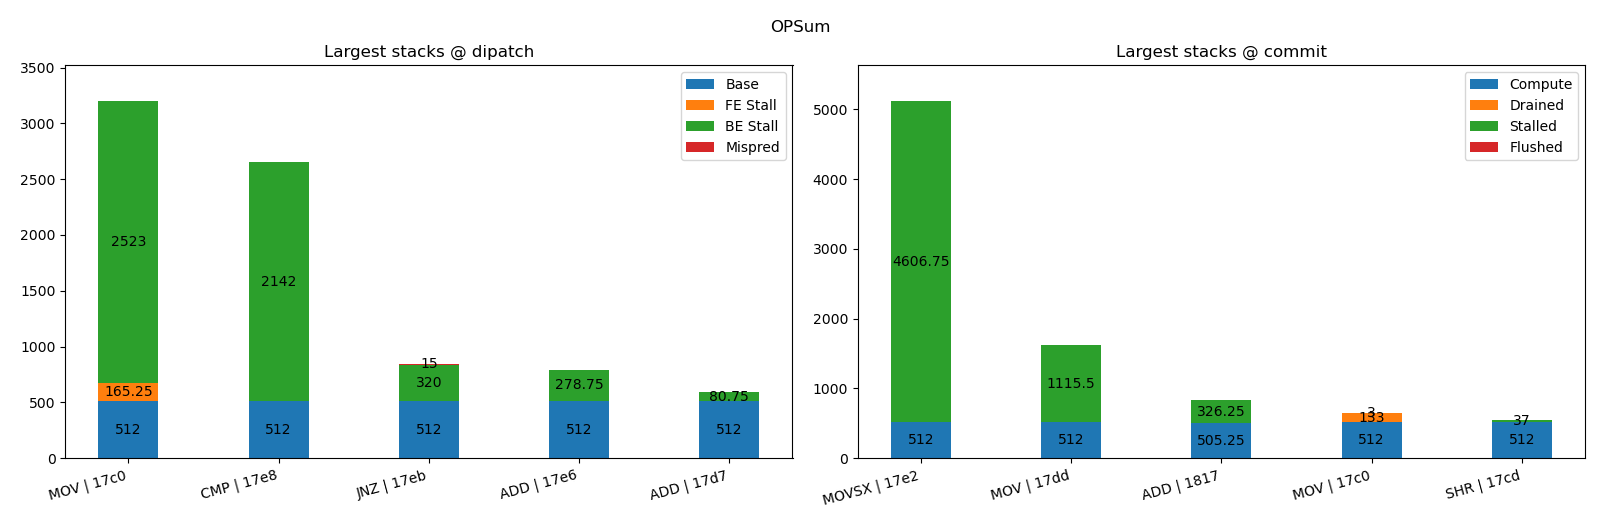
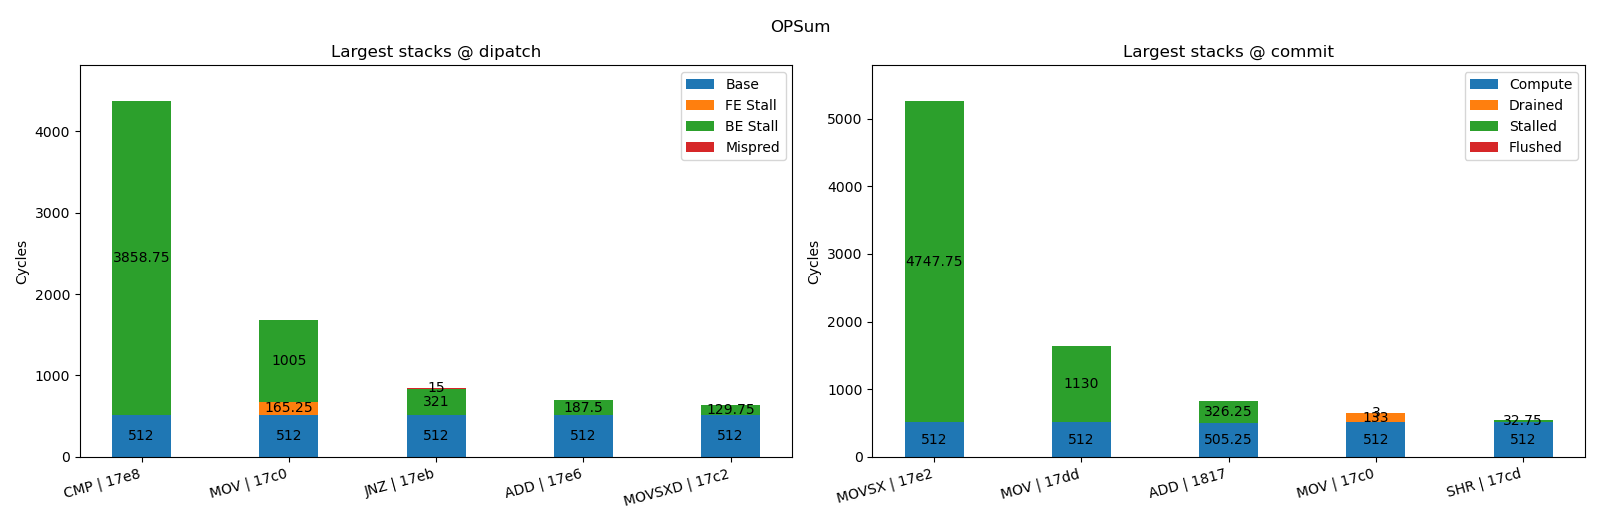
Graphs now have y-axis named. Table uses comma for decimal point

diff --git a/verslag/main.tex b/verslag/main.tex
@@ -393,7 +393,7 @@ Deze sectie onderbouwt de implementatie van \textit{PICS} aan de hand van invari
 \subsection{Totaal aantal cycli}
 Per cyclus kent \textit{PICS} de cyclus (of een fractie ervan, zoals in sectie \ref{subsection:PICS bij dispatch}) toe aan de instructies die in die cyclus dispatchen. Elke cyclus wordt volledig verdeeld - er gaat niets verloren en er wordt niets bijgeteld. De totale som van alle toegewezen cycli over alle \textit{PICS} bij \textit{dispatch} moet daarom per definitie gelijk zijn aan de totale gesimuleerde duur van het programma (in cycli). Eenzelfde redenering kan gemaakt worden voor de \textit{commit}-stacks, die onafhankelijk tot dezelfde som moeten leiden.
 
-Tabel~\ref{tab:invariant_totaal} toont een selectie van \textit{microbenchmarks}. De kolom \textit{ROB-cycli} bevat het totaal aantal simulatiecycli zoals gerapporteerd door de \textit{Sniper} simulator. Er wordt echter een correctie uitgevoerd op dit aantal, wat onderbouwt wordt in sectie \ref{subsection:open_prob}. De kolommen \textit{\(PICS_d\)} en \textit{\(PICS_c\)} bevatten de som van alle \textit{PICS}-waarden bij respectievelijk \textit{dispatch} en \textit{commit}. De bijhorende \(\Delta\)-kolommen geven het verschil in absolute cycli met de referentie.
+Tabel~\ref{tab:invariant_totaal} toont een selectie van \textit{microbenchmarks}. De kolom \textit{ROB-cycli} bevat het totaal aantal simulatiecycli zoals gerapporteerd door de \textit{Sniper} simulator. Er wordt echter een correctie uitgevoerd op dit aantal, wat onderbouwt wordt in sectie \ref{subsection:open_prob}. De kolommen \textit{\(PICS_d\)} en \textit{\(PICS_c\)} bevatten de som van alle \textit{PICS}-waarden bij respectievelijk \textit{dispatch} en \textit{commit}. De bijhorende \(\Delta\)-kolommen geven het verschil in absolute cycli met de referentie. De \(\Delta\) ligt bij \textit{commit} hoger doordat de gedetaileerde simulatie afsluit wanneer sommige \textit{µops} nog niet gesimuleerd zijn, zoals verder uitgelegd in sectie \ref{subsection:open_prob}.
 
 \begin{table}[H]
     \centering
@@ -401,16 +401,16 @@ Tabel~\ref{tab:invariant_totaal} toont een selectie van \textit{microbenchmarks}
         \hline
         Benchmark & ROB-cycli & \(PICS_d\) & \(\Delta_d\) & \(PICS_c\) & \(\Delta_c\) \\
         \hline
-        ED1   & 118{,}438.73 & 118{,}438.70 & \(-0.03\) & 118{,}435.71 & \(-3.03\) \\
-        STL2b & 295{,}280.33 & 295{,}280.26 & \(-0.07\) & 295{,}277.22 & \(-3.11\) \\
-        MCS   & 245{,}360.45 & 245{,}360.31 & \(-0.14\) & 245{,}357.44 & \(-3.00\) \\
-        MI    &  48{,}538.89 &  48{,}538.75 & \(-0.14\) &  48{,}535.50 & \(-3.39\) \\
-        DPcvt &  21{,}845.95 &  21{,}845.75 & \(-0.20\) &  21{,}842.72 & \(-3.23\) \\
-        EI    &   7{,}197.98 &   7{,}197.75 & \(-0.23\) &   7{,}194.70 & \(-3.28\) \\
-        CCl   &   5{,}874.99 &   5{,}874.74 & \(-0.25\) &   5{,}871.72 & \(-3.27\) \\
+        ED1   & 118.438,73 & 118.438,70 & \(-0,03\) & 118.435,71 & \(-3,03\) \\
+        STL2b & 295.280,33 & 295.280,26 & \(-0,07\) & 295.277,22 & \(-3,11\) \\
+        MCS   & 245.360,45 & 245.360,31 & \(-0,14\) & 245.357,44 & \(-3,00\) \\
+        MI    &  48.538,89 &  48.538,75 & \(-0,14\) &  48.535,50 & \(-3,39\) \\
+        DPcvt &  21.845,95 &  21.845,75 & \(-0,20\) &  21.842,72 & \(-3,23\) \\
+        EI    &   7.197,98 &   7.197,75 & \(-0,23\) &   7.194,70 & \(-3,28\) \\
+        CCl   &   5.874,99 &   5.874,74 & \(-0,25\) &   5.871,72 & \(-3,27\) \\
         \hline
     \end{tabular}
-    \caption{Selectie van benchmarks. Alle waarden zijn in cycli.}
+    \caption{Selectie van benchmarks. Alle waarden worden uitgedrukt in cycli.}
     \label{tab:invariant_totaal}
 \end{table}
 
@@ -655,15 +655,15 @@ De \verb|add| op adres \verb|401780| is de eerste instructie die een \textit{loa
 Figuur \ref{fig:AA} toont duidelijk via de \textit{PICS} bij \textit{commit} dat de \verb|add| instructie die hierboven vermeld is de bottleneck is. Merkwaardig is dat de \textit{PICS} bij \textit{dispatch} de \verb|test| instructie aanduidt als bottleneck. Dit is echter te verwachten aangezien — wegens constructie van de \textit{PICS} bij \textit{dispatch}, zie sectie \ref{subsection:PICS bij dispatch} — de cycli worden geattribueerd aan de instructie die op dat moment niet kan worden \textit{gedispatcht}. Op het moment dat de \verb|add| instructie wacht op een \textit{load}, staat de \verb|test| instructie als volgende klaar om \textit{gedispatcht} te worden en krijgt bijgevolg de cycli toegewezen. Dit toont opnieuw aan dat beide meetmomenten een complementair beeld geven en dat het visualiseren van de \textit{PICS} bij \textit{commit} essentieel is voor een correcte analyse.
 \begin{figure}[H]
     \centering
-    \makebox[\textwidth][c]{\includegraphics[width=1.2\textwidth]{AA_nl.png}}
+    \makebox[\textwidth][c]{\includegraphics[width=1.2\textwidth]{AA.png}}
     \caption{PICS van AA}
     \label{fig:AA}
 \end{figure}
 
-Als optimalisatie wordt er een afweging gemaakt binnen het alloceren van de gelinkte lijst. Er wordt gekozen om aan \textit{arena allocation} te doen. Dit wil zeggen dat wanneer de eerste knoop wordt gealloceerd, er onmiddellijk een groter blok wordt gealloceerd voor meerdere knopen. De volgende knopen worden dan gealloceerd door een pointer op te schuiven. Er moet echter een afweging gemaakt worden over hoeveel ruimte er wordt gealloceerd: een te groot blok reserveren verspilt mogelijks geheugen en maakt het moeilijker een vrije blok te vinden, terwijl een te klein blok weinig voordeel biedt. Als er wordt gewerkt met \textit{arena allocation} waarbij er onmiddellijk vijf knopen worden gealloceerd, zijn de bijhorende \textit{PICS} te zien in Figuur~\ref{fig:AA_opt}. Het is duidelijk dat het aantal cycli gespendeerd in een \textit{backend stall} daalt. Het initieel alloceren van meer knopen biedt echter een beperkt voordeel, aangezien de cachegrootte een natuurlijke grens oplegt.
+Als optimalisatie wordt er een afweging gemaakt binnen het alloceren van de gelinkte lijst. Er wordt gekozen om aan \textit{arena allocation} te doen. Dit wil zeggen dat wanneer de eerste knoop wordt gealloceerd, er onmiddellijk een groter blok wordt gealloceerd voor meerdere knopen. De volgende knopen worden dan gealloceerd door een pointer op te schuiven. Er moet echter een afweging gemaakt worden over hoeveel ruimte er wordt gealloceerd: een te groot blok reserveren verspilt mogelijks geheugen en maakt het moeilijker een vrije blok te vinden, terwijl een te klein blok weinig voordeel biedt. Als er wordt gewerkt met \textit{arena allocation} waarbij er onmiddellijk vijf knopen worden gealloceerd, zijn de bijhorende \textit{PICS} te zien in Figuur~\ref{fig:AA_opt}. Het aantal \textit{backend stall} cycli daalt van \(573 292\) naar \(376 733\), een daling van \(34\%\). Het initieel alloceren van meer knopen biedt echter een beperkt voordeel, aangezien de cachegrootte een natuurlijke grens oplegt.
 \begin{figure}[H]
     \centering
-    \makebox[\textwidth][c]{\includegraphics[width=1.2\textwidth]{AAOpt_nl.png}}
+    \makebox[\textwidth][c]{\includegraphics[width=1.2\textwidth]{AA_opt.png}}
     \caption{PICS van AAOpt}
     \label{fig:AA_opt}
 \end{figure}
